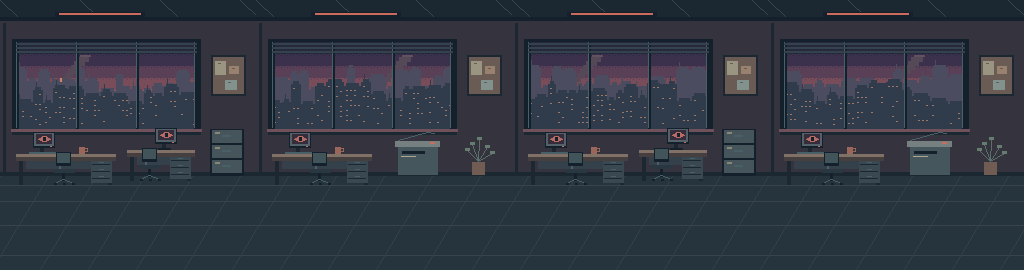
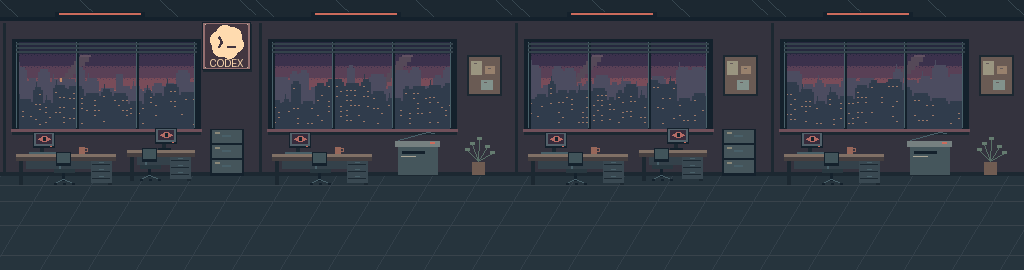
Presenta sudo FIRE-ME con música, computadores y placa de Codex en la oficina

Changed region(s): [[0.1875, 0.0593, 0.25, 0.3556]]

diff --git a/src/scenes/Menus.js b/src/scenes/Menus.js
@@ -1,6 +1,7 @@
 import Phaser from 'phaser';
 import { obtenerDialogo } from '../dialogos.js';
 import { crearCajaEnLinea } from '../reglas/cajaDialogo.js';
+import { musica, ponerMusica, detenerMusica } from '../musica.js';
 import despierto from '../arte/prologo/despierto.png';
 import ventana from '../arte/prologo/ventana.png';
 import escalera from '../arte/prologo/escalera.png';
@@ -38,12 +39,14 @@ export class Inicio extends Phaser.Scene {
   constructor() { super('Inicio'); }
 
   create() {
+    detenerMusica();
     const logo = new Image();
-    logo.src = `${import.meta.env.BASE_URL}assets/menu/masteria.png`;
-    logo.alt = 'MasterIA';
+    logo.src = `${import.meta.env.BASE_URL}assets/menu/sudo-fire-me.png`;
+    logo.alt = 'sudo FIRE-ME';
     logo.className = 'logo-inicio';
     mostrarMenu(this, logo, [
       ['Empezar', () => {
+        ponerMusica(musica.tranquila);
         this.registry.remove('nivelActual'); // empezar siempre desde el primer nivel (o ?nivel=)
         this.scene.start('Introduccion', { descenso: false });
       }]
@@ -57,16 +60,16 @@ export class Introduccion extends Phaser.Scene {
   create(datos = {}) {
     const pagina = document.createElement('section');
     pagina.className = 'menu prologo';
-    pagina.setAttribute('aria-label', 'Prólogo de MasterIA');
+    pagina.setAttribute('aria-label', 'Prólogo de sudo FIRE-ME');
     const imagen = new Image();
     const planos = datos.descenso ? [
-      { src: escalera, piso: 'Piso 23', alt: 'Felipito baja con el extintor por la escalera de emergencia.', texto: 'Veintitrés pisos. Uno a la vez.', pensamiento: true },
+      { src: escalera, alt: 'Felipito baja con el extintor por la escalera de emergencia.', texto: 'Un piso a la vez.', pensamiento: true },
       { src: monitores, piso: 'Piso 22', alt: 'Los monitores encendidos giran sus ojos rojos hacia Felipito.', texto: '¿Hola? ¿Hay alguien ahí?' },
       { src: monitores, piso: 'Piso 22', alt: 'Todos los ojos de las pantallas miran hacia la puerta.', texto: 'Esos ojos… me siguen. Tengo que pasar sin que me alcancen.', pensamiento: true }
     ] : [
-      { src: despierto, piso: 'Piso 23', alt: 'Felipito levanta la cabeza del escritorio.', texto: '¿Me quedé dormido en el trabajo? ¿Qué hora es?' },
-      { src: ventana, piso: 'Piso 23', alt: 'Por la ventana se ven incendios y edificios derrumbados.', texto: '¿D-dónde estoy? ¿Qué pasó ahí afuera?', pensamiento: true },
-      { src: ventana, piso: 'Piso 23', alt: 'Felipito observa la ciudad en llamas.', texto: 'Tengo que salir del edificio.' }
+      { src: despierto, alt: 'Felipito levanta la cabeza del escritorio.', texto: '¿Me quedé dormido en el trabajo? ¿Qué hora es?' },
+      { src: ventana, alt: 'Por la ventana se ven incendios y edificios derrumbados.', texto: '¿D-dónde estoy? ¿Qué pasó ahí afuera?', pensamiento: true },
+      { src: ventana, alt: 'Felipito observa la ciudad en llamas.', texto: 'Tengo que salir del edificio.' }
     ];
     const marco = document.createElement('div');
     marco.className = 'prologo-marco';
@@ -81,9 +84,11 @@ export class Introduccion extends Phaser.Scene {
     let indice = 0;
     const mostrarPlano = () => {
       const plano = planos[indice];
+      if (datos.descenso && plano.src === monitores) ponerMusica(musica.persecucion);
       imagen.src = plano.src;
       imagen.alt = plano.alt;
-      piso.textContent = plano.piso;
+      piso.textContent = plano.piso ?? '';
+      piso.hidden = !plano.piso;
       dialogo.mostrar('felipito', plano.texto && (plano.pensamiento ? `(${plano.texto})` : plano.texto));
       continuar.textContent = indice === planos.length - 1 ? (datos.descenso ? 'Entrar al nivel 1' : 'Buscar la salida') : 'Continuar';
     };
@@ -139,6 +144,7 @@ export class Resultado extends Phaser.Scene {
   }
 
   create() {
+    detenerMusica();
     // La frase de la Mastermind va en la misma caja de novela visual ("???" si aún no se conoce).
     const mensaje = crearCajaEnLinea();
     const hablante = this.registry.get('hablanteMastermind') === '???' ? 'misterio' : 'mastermind';

diff --git a/src/reglas/computadores.js b/src/reglas/computadores.js
@@ -4,9 +4,8 @@ import { numeroDanio } from './danio.js';
 
 const TEXTURA_HUMO = 'humo-temp';
 const COLOR = {
-  normal: 0x6e9eed, // igual que en crearNivel.js
-  ia: 0xd9466f, // después de la revelación (T18)
-  golpeado: 0xf4f8ff,
+  normal: 0xffffff,
+  ia: 0xffc7cb, // después de la revelación (T18)
   averiado: 0x3a4150,
   puerta: 0xe7ac65,
   cable: 0xdf925e,
@@ -38,15 +37,13 @@ export function conectarComputadores(escena) {
 
   const computadores = (nivel.entidades.get('c') ?? []).map((objeto) => ({
     objeto,
-    fondo: objeto.list[0],
-    etiqueta: objeto.list[1],
     x: objeto.x,
     y: objeto.y,
     vida: COMPUTADOR.resistencia,
     averiado: false,
     golpeadoHasta: -Infinity,
     controla: [],
-    limites: new Phaser.Geom.Rectangle(objeto.x - lado / 2, objeto.y - lado / 2, lado, lado)
+    limites: objeto.getBounds()
   }));
   escena.computadores = computadores;
   estado.computadoresRestantes = computadores.length;
@@ -107,9 +104,9 @@ export function conectarComputadores(escena) {
     for (const c of computadores) {
       if (c.averiado) continue;
       const golpeado = jugador.reloj < c.golpeadoHasta;
-      const dano = 1 - c.vida / COMPUTADOR.resistencia;
       c.objeto.x = golpeado ? c.x + Phaser.Math.Between(-2, 2) : c.x;
-      c.fondo.setFillStyle(mezclar(colorBase, COLOR.golpeado, golpeado ? 0.35 + dano * 0.6 : dano * 0.4));
+      if (golpeado && Math.floor(jugador.reloj / 60) % 2 === 0) c.objeto.setTintFill(0xe0efff);
+      else c.objeto.setTint(colorBase);
     }
   };
   escena.events.on('update', dibujar);
@@ -129,11 +126,10 @@ export function conectarComputadores(escena) {
     numeroDanio(escena, c, c.x, c.y - lado, true);
     c.vida = 0;
     c.objeto.x = c.x;
-    c.fondo.setFillStyle(COLOR.averiado);
-    c.etiqueta.setText('x').setColor('#fe6960');
+    c.objeto.setTint(COLOR.averiado).setAlpha(0.7);
 
     // Chispas y humo temporales hasta el arte de Rocío (T22).
-    const chispas = escena.add.particles(c.x, c.y, 'chorro-temp', {
+    const chispas = escena.add.particles(c.x, c.limites.centerY, 'chorro-temp', {
       emitting: false,
       speed: { min: 80, max: 220 },
       lifespan: 320,
@@ -142,7 +138,7 @@ export function conectarComputadores(escena) {
     }).setDepth(5);
     chispas.explode(16);
     escena.time.delayedCall(600, () => chispas.destroy());
-    escena.add.particles(c.x, c.y - lado / 2, TEXTURA_HUMO, {
+    escena.add.particles(c.x, c.limites.top, TEXTURA_HUMO, {
       frequency: 160,
       speedY: { min: -45, max: -20 },
       speedX: { min: -12, max: 12 },
@@ -199,16 +195,6 @@ function asignarAlMasCercano(computadores, peligro) {
   }
   if (mejor) mejor.controla.push(peligro);
   else console.warn(`[nivel] ${peligro.tipo} sin computador que lo controle: nunca se desactiva.`);
-}
-
-function mezclar(a, b, t) {
-  const c = Phaser.Display.Color.Interpolate.ColorWithColor(
-    Phaser.Display.Color.ValueToColor(a),
-    Phaser.Display.Color.ValueToColor(b),
-    100,
-    Phaser.Math.Clamp(t, 0, 1) * 100
-  );
-  return Phaser.Display.Color.GetColor(c.r, c.g, c.b);
 }
 
 function crearTexturaHumo(escena) {

diff --git a/src/scenes/Juego.js b/src/scenes/Juego.js
@@ -12,6 +12,7 @@ import { conectarCarteles } from '../reglas/carteles.js';
 import { conectarPensamientos } from '../reglas/pensamientos.js';
 import { conectarTutorial } from '../reglas/tutorial.js';
 import { mostrarHud } from './Hud.js';
+import { musica, ponerMusica, pausarMusica } from '../musica.js';
 import oficina from '../arte/fondos/oficina.png';
 import oficinaAlerta from '../arte/fondos/oficina-alerta.png';
 import placa from '../arte/tutorial/empleado-del-mes.png';
@@ -29,6 +30,7 @@ export default class Juego extends Phaser.Scene {
 
   // Sprites exportados con tools/exportar_resprite.py (Vite sirve public/ en la raíz).
   preload() {
+    this.load.spritesheet('computador', 'assets/sprites/computador.png', { frameWidth: 32, frameHeight: 32 });
     this.load.spritesheet('checkpoint', 'assets/sprites/checkpoint.png', { frameWidth: 32, frameHeight: 56 });
     this.load.spritesheet('felipito', 'assets/sprites/felipito.png', { frameWidth: 128, frameHeight: 128 });
     this.load.image('completo', 'assets/sprites/completo-italiano.png');
@@ -43,6 +45,12 @@ export default class Juego extends Phaser.Scene {
   }
 
   create() {
+    const textura = this.textures.get('computador');
+    textura.setFilter(Phaser.Textures.FilterMode.NEAREST);
+    if (!textura.has('carcasa')) {
+      // El primer cuadro está vacío y el segundo tiene un margen transparente.
+      textura.add('carcasa', 0, textura.get(1).cutX + 2, 1, 26, 28);
+    }
     this.textures.get('checkpoint').setFilter(Phaser.Textures.FilterMode.NEAREST);
     conectarMonitor(this);
     this.nivel = null;
@@ -83,7 +91,17 @@ export default class Juego extends Phaser.Scene {
     conectarCompletos(this);
     conectarTutorial(this);
     conectarCarteles(this);
+    const actualizarMusica = () => ponerMusica(this.estado.revelado ? musica.persecucion : musica.tranquila);
+    this.events.on('revelacion', actualizarMusica);
+    this.events.on('pause', pausarMusica);
+    this.events.on('resume', actualizarMusica);
+    this.events.once('shutdown', () => {
+      this.events.off('revelacion', actualizarMusica);
+      this.events.off('pause', pausarMusica);
+      this.events.off('resume', actualizarMusica);
+    });
     conectarRevelacion(this);
+    actualizarMusica();
     mostrarHud(this);
   }
 

diff --git a/src/musica.js b/src/musica.js
@@ -1,0 +1,46 @@
+import tranquila from '../Música Tranquila.mp3?url';
+import persecucion from '../persecucion_futurista.wav?url';
+
+export const musica = { tranquila, persecucion };
+
+// Un mismo reproductor conserva el compás entre el cómic y el nivel.
+const reproductor = new Audio();
+reproductor.loop = true;
+reproductor.volume = 0.35;
+let pista = null;
+let enPausa = true;
+
+function actualizar() {
+  if (enPausa || document.hidden) {
+    reproductor.pause();
+  } else if (reproductor.paused) {
+    reproductor.play().catch(error => {
+      if (error.name !== 'AbortError' && error.name !== 'NotAllowedError') console.warn('Error de música', error);
+    });
+  }
+}
+
+export function ponerMusica(url) {
+  if (pista !== url) {
+    reproductor.src = url;
+    pista = url;
+  }
+  enPausa = false;
+  actualizar();
+}
+
+export function pausarMusica() {
+  enPausa = true;
+  actualizar();
+}
+
+export function detenerMusica() {
+  pausarMusica();
+  pista = null;
+}
+
+document.addEventListener('visibilitychange', actualizar);
+if (import.meta.hot) import.meta.hot.dispose(() => {
+  document.removeEventListener('visibilitychange', actualizar);
+  detenerMusica();
+});

diff --git a/src/niveles/crearNivel.js b/src/niveles/crearNivel.js
@@ -1,4 +1,4 @@
-import { TAMANO_CELDA } from '../config.js';
+import { COMPUTADOR, TAMANO_CELDA } from '../config.js';
 import { leerMapa } from './mapa.js';
 
 const archivos = import.meta.glob('../data/niveles/*.txt', {
@@ -9,7 +9,7 @@ const archivos = import.meta.glob('../data/niveles/*.txt', {
 
 const colores = {
   '#': 0x52677a, '=': 0xa8c2d1, '^': 0xfe6960, P: 0x46bfa6,
-  c: 0x6e9eed, M: 0xb885ed, S: 0x87c96d,
+  M: 0xb885ed, S: 0x87c96d,
   D: 0xe7ac65, '~': 0xdf925e, '!': 0xe6cc65, o: 0xf2c14e, '?': 0x8fa6c4, '*': 0xffd34d, e: 0xd33b2c, T: 0xd9b98a
 };
 
@@ -67,6 +67,10 @@ export function crearNivel(escena, nombre) {
 }
 
 function crearMarcador(escena, simbolo, x, y, lado) {
+  if (simbolo === 'c') {
+    const computador = escena.add.image(x, y, 'computador', 'carcasa').setScale(COMPUTADOR.escala);
+    return computador.setOrigin(0.5, 1 - lado / (2 * computador.displayHeight));
+  }
   if (simbolo === 'K') {
     const reloj = escena.add.image(x, y, 'checkpoint', 0);
     // La posición lógica es el centro de la celda y el pedestal se apoya en su borde inferior.

diff --git a/index.html b/index.html
@@ -5,7 +5,7 @@
     <meta name="viewport" content="width=device-width, initial-scale=1">
     <meta name="theme-color" content="#172638">
     <link rel="icon" href="data:,">
-    <title>MasterIA</title>
+    <title>sudo FIRE-ME</title>
     <style>
       html, body, #juego { width: 100%; height: 100%; margin: 0; }
       /* La página nunca se desplaza: Espacio y las flechas son del juego.
@@ -17,7 +17,7 @@
     </style>
   </head>
   <body>
-    <main id="juego" aria-label="MasterIA"></main>
+    <main id="juego" aria-label="sudo FIRE-ME"></main>
     <script type="module" src="/src/main.js"></script>
   </body>
 </html>

diff --git a/src/config.js b/src/config.js
@@ -77,6 +77,7 @@ export const EXTINTOR = {
 };
 
 export const COMPUTADOR = {
+  escala: 2,
   resistencia: 0.3 // segundos de chorro acumulado para averiar un computador pequeño (la carga llena dura 0,5)
 };
 

diff --git a/tools/dibujar_logo.py b/tools/dibujar_logo.py
@@ -6,9 +6,12 @@ from PIL import Image, ImageDraw
 
 LETRAS = {
     "M": ["1100011", "1110111", "1111111", "1101011", "1100011", "1100011", "1100011", "1100011"],
-    "A": ["011110", "111111", "110011", "110011", "111111", "110011", "110011", "110011"],
-    "S": ["011111", "111111", "110000", "111110", "011111", "000011", "111111", "111110"],
-    "T": ["111111", "111111", "001100", "001100", "001100", "001100", "001100", "001100"],
+    "F": ["111111", "111111", "110000", "111110", "111110", "110000", "110000", "110000"],
+    "-": ["0000", "0000", "0000", "1111", "1111", "0000", "0000", "0000"],
+    "s": ["00000", "00000", "01111", "11000", "01110", "00011", "11110", "00000"],
+    "u": ["00000", "00000", "11011", "11011", "11011", "11011", "01111", "00000"],
+    "d": ["00011", "00011", "01111", "11011", "11011", "11011", "01111", "00000"],
+    "o": ["00000", "00000", "01110", "11011", "11011", "11011", "01110", "00000"],
     "E": ["111111", "111111", "110000", "111110", "111110", "110000", "111111", "111111"],
     "R": ["111110", "111111", "110011", "111111", "111110", "110110", "110011", "110011"],
     "I": ["1111", "1111", "0110", "0110", "0110", "0110", "1111", "1111"],
@@ -39,14 +42,18 @@ def monitor(d):
 
 
 def titulo():
-    image = Image.new("RGBA", (220, 49))
+    image = Image.new("RGBA", (280, 49))
     d = ImageDraw.Draw(image)
     monitor(d)
     x = 55
-    for i, letra in enumerate("MASTERIA"):
+    for letra in "sudo FIRE-ME":
+        if letra == " ":
+            x += 8
+            continue
         filas = LETRAS[letra]
+        paso = 2 if letra.islower() else 3
         clara, media, baja, relieve = (
-            ("#f1ffeb", "#b8e1d6", "#8bc4c3", "#396877") if i < 6 else
+            ("#f1ffeb", "#b8e1d6", "#8bc4c3", "#396877") if letra.islower() else
             ("#ffe2a3", "#ffaa69", "#ff8363", "#9c4651")
         )
         for sombra in (True, False):
@@ -54,13 +61,13 @@ def titulo():
                 avance = x + (23 - y) // 6
                 for col, bit in enumerate(filas[y // 3]):
                     if bit == "1":
-                        px = avance + col * 3
+                        px = avance + col * paso
                         if sombra:
-                            d.rectangle((px+1,12+y,px+3,15+y), fill=relieve)
+                            d.rectangle((px+1,12+y,px+paso,15+y), fill=relieve)
                         else:
                             color = clara if y < 10 else media if y < 18 else baja
-                            d.line((px,11+y,px+2,11+y), fill=color)
-        x += len(filas[0]) * 3 + 2
+                            d.line((px,11+y,px+paso-1,11+y), fill=color)
+        x += len(filas[0]) * paso + 2
     # Pistas de circuito que conectan la firma con el piloto del monitor.
     d.line([(48,35),(54,41),(145,41),(148,38),(166,38)], fill="#43747a")
     d.line([(55,44),(103,44),(105,42)], fill="#304c59")
@@ -69,6 +76,6 @@ def titulo():
 
 
 if __name__ == "__main__":
-    destino = Path(__file__).resolve().parents[1] / "public/assets/menu/masteria.png"
+    destino = Path(__file__).resolve().parents[1] / "public/assets/menu/sudo-fire-me.png"
     destino.parent.mkdir(parents=True, exist_ok=True)
     titulo().save(destino)

diff --git a/tools/dibujar_oficina.py b/tools/dibujar_oficina.py
@@ -118,11 +118,25 @@ def oficina(alarma):
         rect(x+59, 13, 82, 2, luz)
         rect(x+3, 23, 3, 152, sombra)
         ventana(x+16, i+23)
-        rect(x+211, 55, 35, 41, sombra)
-        rect(x+213, 57, 31, 37, "#6a5b54")
-        for dx, dy, w, h, col in [(2,4,11,14,"#9a9580"),(16,9,10,8,"#98816d"),(12,23,12,10,"#82928c")]:
-            rect(x+213+dx,57+dy,w,h,col)
-            rect(x+216+dx,59+dy,3,1,"#655c5b")
+        if i == 0:
+            # Placa esmaltada sobre el primer paño de pared, entre las ventanas.
+            rect(x+203, 24, 49, 48, sombra)
+            rect(x+202, 22, 49, 48, tinta)
+            rect(x+203, 23, 47, 46, "#748587" if not alarma else "#956f70")
+            rect(x+205, 24, 43, 44, "#253e4a" if not alarma else "#433640")
+            esmalte = "#c8eee4" if not alarma else "#ffdbaf"
+            with Image.open(Path(__file__).with_name("codex-mascara.png")) as logo:
+                imagen.paste(esmalte, (x+210, 25, x+244, 59), logo)
+            d.text((x+227, 63), "CODEX", fill=esmalte, anchor="mm")
+            for px in (205, 247):
+                for py in (24, 67):
+                    rect(x+px, py, 1, 1, "#c2b69c")
+        else:
+            rect(x+211, 55, 35, 41, sombra)
+            rect(x+213, 57, 31, 37, "#6a5b54")
+            for dx, dy, w, h, col in [(2,4,11,14,"#9a9580"),(16,9,10,8,"#98816d"),(12,23,12,10,"#82928c")]:
+                rect(x+213+dx,57+dy,w,h,col)
+                rect(x+216+dx,59+dy,3,1,"#655c5b")
         rect(x, 172, 256, 4, sombra)
         mesa(x+16, 154, 100)
         monitor(x+33, 132)

diff --git a/docs/arte/fuentes/LEEME.md b/docs/arte/fuentes/LEEME.md
@@ -20,6 +20,7 @@ Para actualizar un dibujo: reemplaza su `.resprite` aquí, con el mismo nombre, 
 | `felipito-con-extintor.resprite` | Prueba de Felipito con extintor (el cuadro 0 está vacío) | 128 × 128 | 2 |
 | `extintor.resprite` | Extintor | 128 × 128 | 1 |
 | `mastermind.resprite` | La Mastermind | 128 × 128 | 1 |
+| `computador.resprite` | Computador que se avería con el extintor. El dibujo está en el cuadro 1. | 32 × 32 | 2 |
 | `fondo-noche.resprite` | Fondo nocturno de ciudad | 256 × 256 | 1 |
 | `completo-italiano.resprite` | Completo italiano | 128 × 128 | 1 |
 | `juan-carlos-bodoque.resprite` | Juan Carlos Bodoque, presentador de la Nota Verde en la terminal final (ver abajo) | 32 × 32 | 1 |
